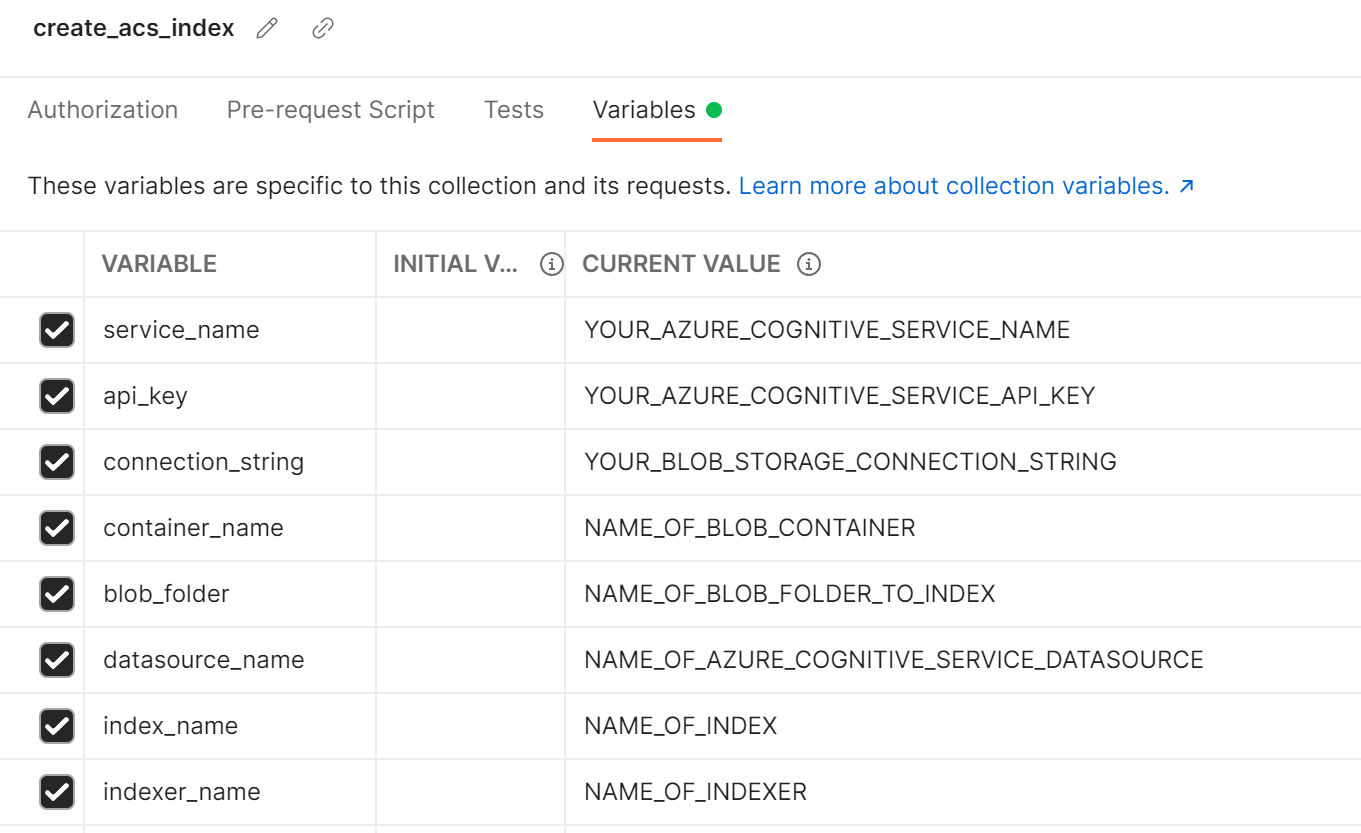
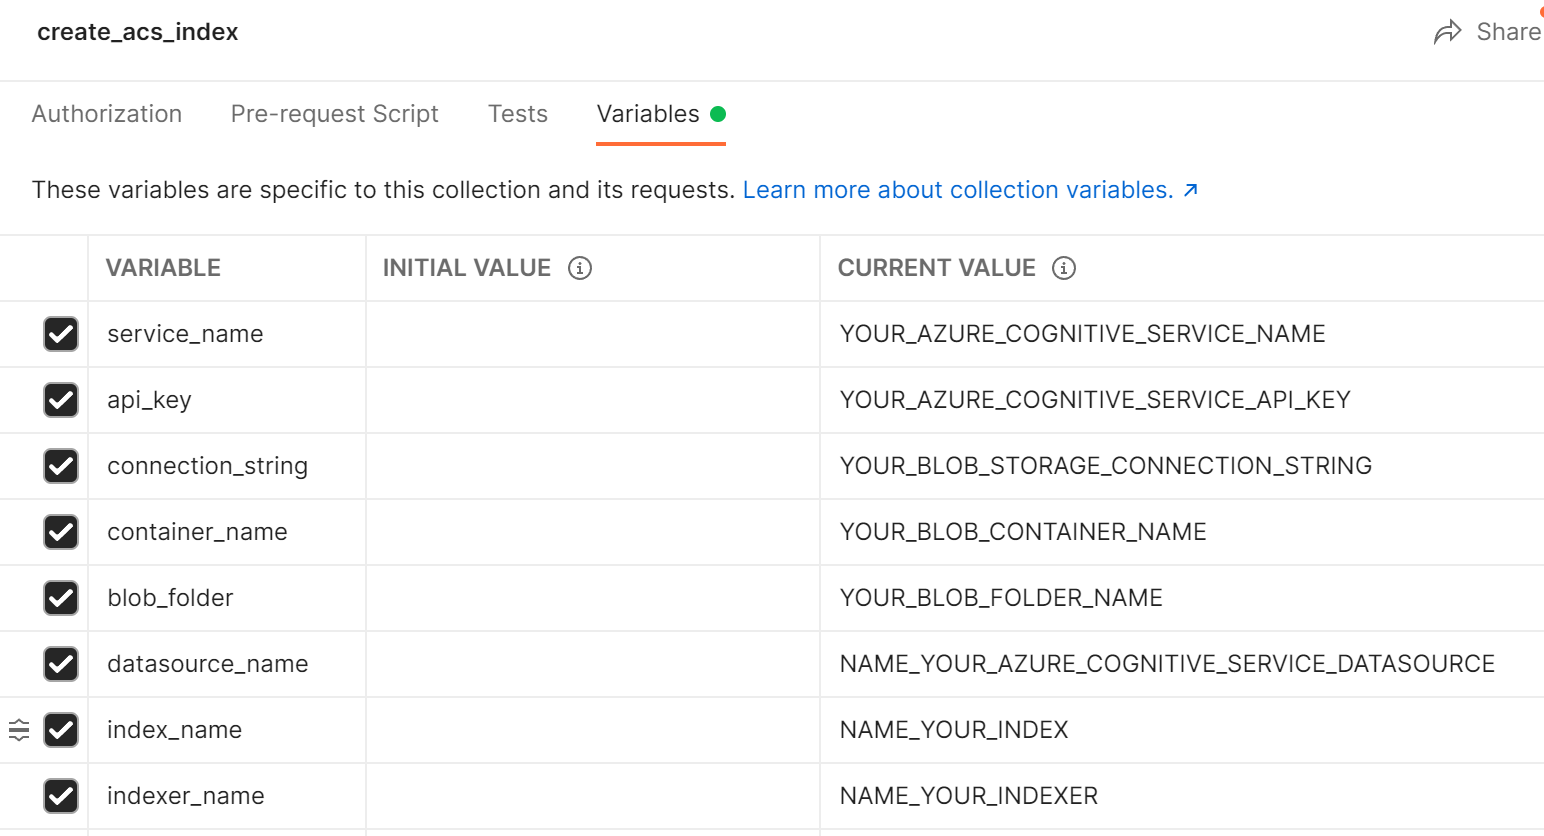
update readme

diff --git a/scripts/prepare_data.py b/scripts/prepare_data.py
@@ -51,6 +51,9 @@ def main():
     # Save each record as a JSON file in the specified output directory
     logging.info(f"[INFO] Saving each record as a JSON file")
     file_type = ".json"
+    # Create the output directory if it does not exist
+    if not os.path.exists(dir):
+        os.makedirs(dir)
     # The use of the tqdm function is optional. It's used to show the progress bar.
     for entry in tqdm(parsed):
         file_name = os.path.join(dir, entry["medline_ui"]+file_type)

diff --git a/README.md b/README.md
@@ -2,39 +2,71 @@
 
 # Knowledge Graph Enabled Search Accelerator
 
-This repo contains the core components for the Knowledge Graph Enabled Search solution.
+This accelerator provides the code template to implement a domain-aware search solution with knowledge graph (KG) to enrich the organic results of a general purpose search engine. The use of the accelerator is demonstrated through an example implementation of a medical document retrieval solution. The example implementation uses a knowledge graph to expand the scope of search from the original query to semantically related queries to uncover documents that are relevant to the original query but may not contain the exact keywords. 
+
+ <!-- the original query.  to uses a medical knowledge graph to expand search perform search across the well-known [OHSUMED](https://link.springer.com/chapter/10.1007/978-1-4471-2099-5_20) medical dataset.  -->
+
+<p align="center"><img src="docs/media/animation.gif"></p>
+
+
+<!-- This repo contains the core components for the Knowledge Graph Enabled Search solution.
 The solution is designed as a template that you can reuse the basic structure of the solution by overwriting its individual components based on the requirement of your application. 
 For example, you can ingest your own knowledge graph and implement your own query rewriting logic that tailored to your application.
 
-The solution can be generalized to different kind of industries. In this template, we use a sample knowledge graph and documents from medical domain to demonstrate the end-2-end solution. 
+The solution can be generalized to different kind of industries. In this template, we use a sample knowledge graph and documents from medical domain to demonstrate the end-2-end solution.  -->
 
-# Why introducing knowledge graph to search engine
+## Knowledge Graph to Enhance Search Results
 
-For general search engine like Lucene, Azure Cognitive Search, etc., they index the documents by terms and rank the results based on term frequency. These search engines, however, are not designed to interpret the complex mental associations humans naturally create between various concepts. 
+Knowledge graph has been widely used to enhance search results by interpreting user intent based on semantic meaning of search terms. It is commonly applied to the following two search enhancement scenarios:
 
-Here is an example by [Uber Eat](https://eng.uber.com/uber-eats-query-understanding/): an eater might have a certain type of food in mind, but choose something else while browsing the app. For example, an eater might search for udon, but end up ordering soba. In this case, the eater may have been looking for something similar to udon, such as soba and ramen, instead of only being interested in udon. As humans, it might seem obvious; Udon and soba are somewhat similar, Chinese and Japanese are both Asian cuisines. However, machines have a more difficult time understanding these similarities only based on the textual information. In fact, a lot of work goes into training them to make these types of intelligent decisions on the semantic level. 
+* **Search refinement**: Knowledge graph can be used to refine search results by recognizing different meanings of a search term (e.g. "apple" can be a company or fruit). When search ambiguity is detected from knowledge graph a search engine can provide a refining option to the users to select a slice of the results based on their intent.
 
-Uber's solution is to first build a food knowledge graph. Then, based the knowledge graph, it will try to interpret the intent behind user's search. In the above example, the knowledge graph will tell us that udon is similar to ramen and soba, and it is a kind of Japanese food. So, besides of searching "udon", it will also search for "ramen", "soda" and other "Japanese" food. This can provide more options to the user to better meet his/her intention. Especially, it will be very useful when there is no restaurant nearby is selling "udon".    
+* **Search expansion**: Knowledge graph can also be used to expand search results through the relationships of the entities present in the search queries. For example [Uber Eats](https://www.uber.com/en-AU/blog/uber-eats-query-understanding/) uses a food knowledge graph to expand search from the original query to related terms to help their customers find food options that they had not considered (e.g. expand search from "udon" to terms such as "ramen", "soba", and "Japanese").
 
-<figure>
-<img src="http://1fykyq3mdn5r21tpna3wkdyi-wpengine.netdna-ssl.com/wp-content/uploads/2018/06/Figure_3.jpg" alt="Trulli" class="center" style="width:50%">
-<!-- <figcaption align = "center"><b>Fig.1 - Food Knowledge Graph</b></figcaption> -->
-</figure>
+The code template provided by this solution acceleration is applicable to both search refinement and expansion scenarios.
 
-## Prerequisites
- 
-In order to successfully complete your solution, you will need to have access to and or provisioned the following: 
 
-* Access to an Azure subscription
+## An Example KG-Enabled Search Scenario
 
-## Getting Started
+To demonstrate the use of the solution accelerator this repo provides an example of using knowledge graph for search expansion in the context of medical document retrieval. 
 
-### Infrastructure setup
+An example knowledge graph is created based on [Unified Medical Language System (UMLS)](https://www.nlm.nih.gov/research/umls/index.html), which is a set of files and software that brings together health and biomedical vocabularies and standards to enable interoperability between computer systems. We create an example knowledge graph based on an [ontology](https://en.wikipedia.org/wiki/Ontology_(information_science)) as shown below to capture the relationships between various [keratoconus](https://www.hopkinsmedicine.org/health/conditions-and-diseases/keratoconus)-related diseases and their corresponding treatments. 
+![img](docs/media/sample_kg.PNG)
 
-Below is the architecture used by this solution. Both App Services are running a Flask application. You can reuse/replace it based on your scenario. You can also add more components to the solution. For example, it is natural to adding tool like Azure Data Factory to orchestrate the data ingestion part.
-![img](docs/media/architecture.PNG)
+In a medical document retrieval scenario, parent (hypernym) and children (hyponyms) of a disease are considered to be highly related, hence are natural candidates for search expansion. The example search engine is therefore designed to automatically expand a disease term in the original query to related parent and children diseases. For example, the search engine will expand "keratoconus" to its parent and children diseases such as "protrusion", "corneal disease", "corneal ectasia", "stable condition keratoconus", and "acute hydrops keratoconus". 
 
-Provision the following Azure resources in your own subscription: 
+# Solution Design
+
+This accelerator implements the following solution design that contains 4 key components: 
+![img](docs/media/solution_design.png)
+* **Front-End UI**: A front-end application to surface the final search results to the end users.
+* **Graph DB**: A graph DB to host the knowledge graph. Azure Cosmos DB with Gremlin API is used as the graph DB. 
+* **Search Index**: A general purpose search engine to index and query the provided data. Azure Cognitive Search is used to index the data stored in the Azure Data Lake Storage (Gen 2) container.
+* **KG Search API**: An API that encapsulates the following workflow for KG-enabled search expansion/refinement:
+    
+    1. Preprocessing: Preprocess the search query, e.g. remove domain-specific stop words.
+    2. NER: Apply a Named Entity Recognition (NER) model to the preprocessed query to extract entities of interest. As NER is not the focus of this accelerator the example code uses a simple rule-based NER procedure. One can replace this simple implementation with an ML-based NER model to recognize domain-specific entities, e.g. by training a custom NER model using [Azure Cognitive Service for Language](https://docs.microsoft.com/en-us/azure/cognitive-services/language-service/custom-named-entity-recognition/overview). Please refer to ```api/search_expansion/nerprocessing/ner.py``` for NER model input and output formats. 
+    3. Graph Query: Take the NER result as the input, and retrieve related entities from the KG.
+    4. Query Rewriting: Use the entities retrieved from the KG to rewrite the original search query, and submit the rewritten query to the general purpose search engine. 
+    5. Postprocessing: Process the search results returned by the general purpose search engine, e.g. apply persona-based filtering or any re-ranking logic. The postprocessed results are surfaced to the end users through the front-end UI.
+
+The example code in this repo implements search expansion based on the above solution design. One can adapt the design for other search scenarios, specifically the scenarios that can benefit from the use of a domain-specific knowledge graph. 
+
+## Prerequisite
+
+You need to have an Azure subscription with the access to the following resources: 
+
+| Azure Resources      | Description | Note |
+| ----------- | ----------- | --------------|
+| Data Lake Storage | To store the data    | Use [Azure Data Lake Storage Gen2](https://docs.microsoft.com/en-us/azure/storage/blobs/data-lake-storage-introduction)
+| Cognitive Search      | To index the data from the data lake   |
+| Cosmos DB with Gremlin API      | To store the knowledge graph     |
+| App Service Plan   | To host two applications: the front-end UI and the KG Search API respectively | App service plan is required for app deployment to Azure. When creating an app service plan select Linux as the OS. Refer to this [instruction](https://docs.microsoft.com/en-us/azure/app-service/quickstart-python?tabs=flask%2Cwindows%2Cvscode-aztools%2Cvscode-deploy%2Cdeploy-instructions-azportal%2Cterminal-bash%2Cdeploy-instructions-zip-azcli#2---create-a-web-app-in-azure) for app deployment from [VS Code](https://code.visualstudio.com/). One can also follow the instruction below to run the apps locally for testing. To protect the KG search API one should add an authentication mechanism. For example, we configure API authentication to use Azure AD as the authentication provider, cf. the configuration guide [here](https://docs.microsoft.com/en-us/azure/app-service/configure-authentication-provider-aad#--option-1-create-a-new-app-registration-automatically). 
+
+<!-- Below is the architecture used by this solution. Both App Services are running a Flask application. You can reuse/replace it based on your scenario. You can also add more components to the solution. For example, it is natural to adding tool like Azure Data Factory to orchestrate the data ingestion part.
+![img](docs/media/architecture.PNG) -->
+
+<!-- Provision the following Azure resources in your own subscription: 
 1. An Azure App Service to host the frontend application (We recommend to create the App Service using VS Code: [following this link](https://docs.microsoft.com/en-us/azure/app-service/quickstart-python?tabs=flask%2Cwindows%2Cvscode-aztools%2Cvscode-deploy%2Cdeploy-instructions-azportal%2Cterminal-bash%2Cdeploy-instructions-zip-azcli#2---create-a-web-app-in-azure). You can skip the Deployment of the code first. We will revisit this in the later step.)
 2. An Azure App Service to host the search APIs
 3. A cognitive search service to index the documents
@@ -86,59 +118,99 @@ gunicorn --bind=0.0.0.0 --timeout 600 --chdir ui app:app
 ```
 
 You may first need to clone the repository to your machine if you did not.
-In Visual Code, you can now continue the deploy step by following this [link](https://docs.microsoft.com/en-us/azure/app-service/quickstart-python?tabs=flask%2Cwindows%2Cvscode-aztools%2Cvscode-deploy%2Cdeploy-instructions-azportal%2Cterminal-bash%2Cdeploy-instructions-zip-azcli#2---create-a-web-app-in-azure). You can also choose other deployment methods like command line deployment in the same page of the previous link.
+In Visual Code, you can now continue the deploy step by following this [link](https://docs.microsoft.com/en-us/azure/app-service/quickstart-python?tabs=flask%2Cwindows%2Cvscode-aztools%2Cvscode-deploy%2Cdeploy-instructions-azportal%2Cterminal-bash%2Cdeploy-instructions-zip-azcli#2---create-a-web-app-in-azure). You can also choose other deployment methods like command line deployment in the same page of the previous link. -->
 
-### Prepare sample data
-We are using the Hugging Face [OHSUMED](https://huggingface.co/datasets/ohsumed) dataset to demo the end-2-end solution. It is a set of 348,566 references from MEDLINE, the on-line medical information database, consisting of titles and/or abstracts from 270 medical journals over a five-year period (1987-1991).
-For the knowledge graph, we simply create a small instance based on the Ontology described in [Unified Medical Language System (UMLS)](https://www.nlm.nih.gov/research/umls/index.html), which is a set of files and software that brings together many health and biomedical vocabularies and standards to enable interoperability between computer systems.
-In this demo, a rule based NER will try to detect if there is any disease name mentioned in the search query. If yes, it will expand the search by adding its child and parrent classes into the rewritten query.
+## Getting Started
 
-![img](docs/media/sample_kg.PNG)
-
-1. Create Virtual Environment using venv or conda. The current solution is only tested in python 3.8. For example:
+1. Create a virtual environment. The solution accelerator is tested with python 3.8. 
 ```
 conda create -n kg-search python=3.8
 conda activate kg-search
 ```
 
-2. Navigate to the cloned repository and install python dependency:
+2. Clone the repo and install python dependencies:
 ```
+git clone https://github.com/microsoft/dstoolkit-kg-search.git
+cd dstoolkit-kg-search
 python -m pip install -r requirements.txt
 ```
 
-3. Create a .env file in root directory and fill in the value for the following properties:
+3. Prepare example medical data. We use the Hugging Face [OHSUMED](https://huggingface.co/datasets/ohsumed) dataset for the demo. It is a set of 348,564 references from MEDLINE, an online medical information database, consisting of titles, abstracts, and other metadata from 270 medical journals over a five-year period (1987-1991). Run the following command to download the OHSUMED dataset from the Hugging Face data repository, and extract entries from the dataset into separate JSON files for subsequent indexing:
 ```
-# Cosmos DB Configuration
-COSMOS_DB_SERVER=    # The address of the Cosmos DB server
-COSMOS_DB_DATABASE=    # The database you create in Cosmos DB
-COSMOS_DB_GRAPH=     # The graph collection in the above database that actually stores the KG
-COSMOS_DB_PASSWORD=    # The access key to the Cosmos DB
+python scripts/prepare_data.py -o your_output_directory
 ```
 
-4. To initialize the sample KG, navigate to the script folder and run:
-```
-python initialize_graph.py
-```
+4. Upload the JSON files created in the previous step to a folder in an Azure Data Lake blob container, see an example below.
+![img](docs/media/blob_folder.PNG)
 
-5. Prepare the sample medical data set as JSON files:
-```
-python prepare_data.py -o [the output directory]
-```
-
-6. Upload the output files to the Blob storage you created before.
-
-7. Import the file "scripts/create_acs_index.postman_collection.json" into [Postman](https://learning.postman.com/docs/getting-started/importing-and-exporting-data/#importing-data-into-postman) to create a Postman collection named "create_acs_index". The collection contains the following Azure Cognitive Search API calls that can be run in the following order to index the uploaded OHSUMED data:
-    * 1_create_datasource: Create a [data source](https://docs.microsoft.com/en-us/rest/api/searchservice/create-data-source) to connect to the OHSUMED data in the blob storage.
+5. Import the file "scripts/create_acs_index.postman_collection.json" into [Postman](https://learning.postman.com/docs/getting-started/importing-and-exporting-data/#importing-data-into-postman) to create a Postman collection named "create_acs_index". The collection contains the following Azure Cognitive Search API calls that can be run in the following order to index the OHSUMED JSON files from the blob container:
+    * 1_create_datasource: Create a [data source](https://docs.microsoft.com/en-us/rest/api/searchservice/create-data-source) to connect to the OHSUMED data in the blob container.
     * 2_create_index: Define an [index](https://docs.microsoft.com/en-us/rest/api/searchservice/create-index) schema to host the data.
     * 3_create_indexer: Create [an indexer](https://docs.microsoft.com/en-us/rest/api/searchservice/create-indexer) to index the OHSUMED data to the defined index. 
 
-     Before running the collection, [edit the collection variables](https://learning.postman.com/docs/sending-requests/variables/#defining-collection-variables) in Postman based on your Azure service setup:![img](docs/media/postman_vars.png) Having configured the collection variables, you can [run the collection](https://learning.postman.com/docs/running-collections/intro-to-collection-runs/#configuring-a-collection-run) in the order as shown below: ![img](docs/media/postman_run_collection.png) 
+     Before running the Postman collection, [edit the collection variables](https://learning.postman.com/docs/sending-requests/variables/#defining-collection-variables) in Postman accordingly. Set ```datasource_name```, ```index_name```, and ```indexer_name``` based on your preferred naming choice. The rest of the variables should be set based on your Azure service setup. ![img](docs/media/postman_vars.png) 
+     
+     Having configured the collection variables, you can [run the collection](https://learning.postman.com/docs/running-collections/intro-to-collection-runs/#configuring-a-collection-run) in the order as shown below to start indexing the OHSUMED data.![img](docs/media/postman_run_collection.png) 
+
+    To review the indexing progress go to the Azure Cognitive Search Overview page on the Azure Portal. Upon successful completion of the indexing, the document count of your created index should reach 348,564:
+     ![img](docs/media/search_index.png) 
 
 
-### Run the demo
+6. Create an example KG in a Cosmos DB. First create a ```.env``` file in the root directory of the repository, and fill in the values for the following variables:
 
-Once you finish all the steps above, you can now browse the home page of the frontend application. Type in the search text "keratoconus treatment" and then click the search button, you should see the results listed in your page. You can try different search by switching the "KG Enabled" option on or off. Ideally, you will see more results returned when the "KG Enabled" is on since it will include the search results for those similar disease to keratoconus as well.  
-![img](docs/media/expansion.png)
+    ```
+    # Cosmos DB Configuration
+    COSMOS_DB_SERVER=    # The address of the Cosmos DB server, i.e., the Gremlin Endpoint
+    COSMOS_DB_DATABASE=  # The database you create in Cosmos DB
+    COSMOS_DB_GRAPH=     # The graph collection in the above database that stores the KG
+    COSMOS_DB_PASSWORD=  # The access key to the Cosmos DB
+    ```
+    Then run the following command to create a keratoconus knowledge graph according to the above configuration, cf. the ontology and knowledge graph introduced in the example search scenario discussion:
+    ```
+    python scripts/initialize_graph.py
+    ```
+
+7. Deploy the front-end UI and KG search API (both are Flask apps) locally or to Azure: 
+    
+    **Local deployment (for testing)**: 
+    * To deploy the apps locally, first edit the ```.env``` file created above for KG creation with the following additional variables: 
+
+        ```
+        # Azure Cognitive Search Configuration
+        ACS_ENDPOINT=       # The url of ACS endpoint 
+        ACS_API_KEY=        # The access key of ACS 
+        ACS_INDEX_NAME=     # The index name you want to use in ACS, e.g.ohsumed
+        ACS_API_VERSION=    # The API version of ACS, tested with 2021-04-30-Preview 
+
+        # Cosmos DB Configuration (same as used for KG creation above)
+        COSMOS_DB_SERVER=   # The address of the Cosmos DB server
+        COSMOS_DB_DATABASE= # The database you create in Cosmos DB
+        COSMOS_DB_GRAPH=    # The graph collection in the above database that stores the KG
+        COSMOS_DB_PASSWORD= # The access key to the Cosmos DB
+
+        # Search API Configuration
+        SEARCH_API_URL=     # The URL of the KG search API. In case of local development it should point to your local URL.
+        LOCAL_DEBUG=1       # Set local debug to 1 to bypass authentication
+
+        # Front-end UI Configuration
+        APP_SECRET_KEY=     # The secret key for front-end application to maintain cookies. It can be an arbitrary string. 
+        MAX_CONTENT_SIZE=200  # The content size setting used by the frontend application. Default to 200.
+        ```
+    * Run the following command under the ```api``` folder to activate the KG Search API. You can use any port number you want. This URL will be your SEARCH_API_URL in the ```.env``` file.
+
+        ```
+        flask run --host=0.0.0.0 --port=5000
+        ```
+    * Run the following command under the ```ui``` folder to start the front-end application.
+        ```
+        flask run --host=0.0.0.0 --port=5001
+        ```
+    * You can now visit the front-end application at http://127.0.0.1:5001. Type in a query such as "keratoconus treatment", then click the search button. You can toggle "KG Enabled" option on and off to compare the results with and without KG augmentation. You are likely to see more results with the "KG Enabled" option on if your query contains a disease term that is present in the example keratoconus KG. In that case the search is expanded from the original query to a query containing all the related diseases. 
+    ![img](docs/media/expansion.png)
+
+    **Azure deployment**: 
+
+
 
 ## Adapt the solution to your domain
 
